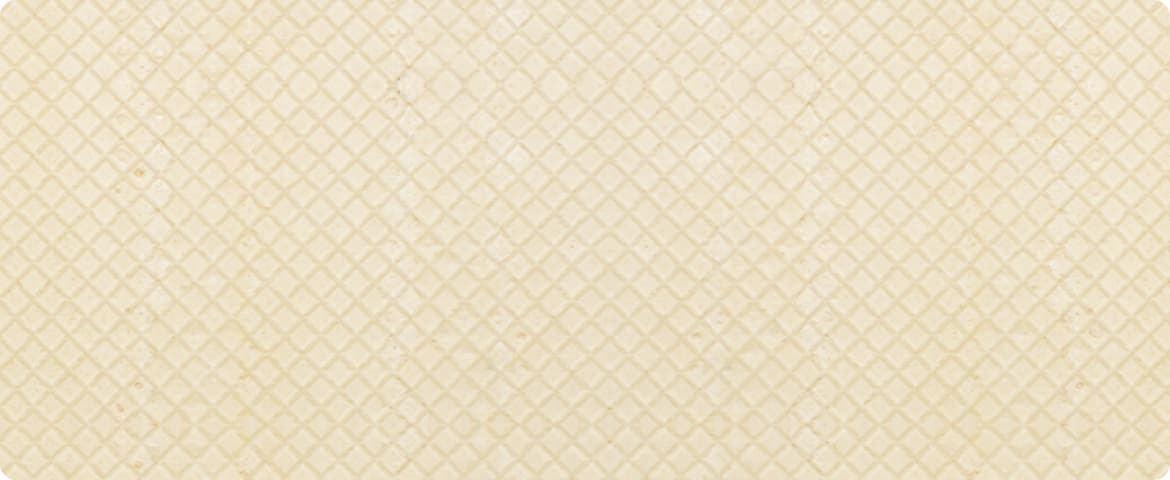
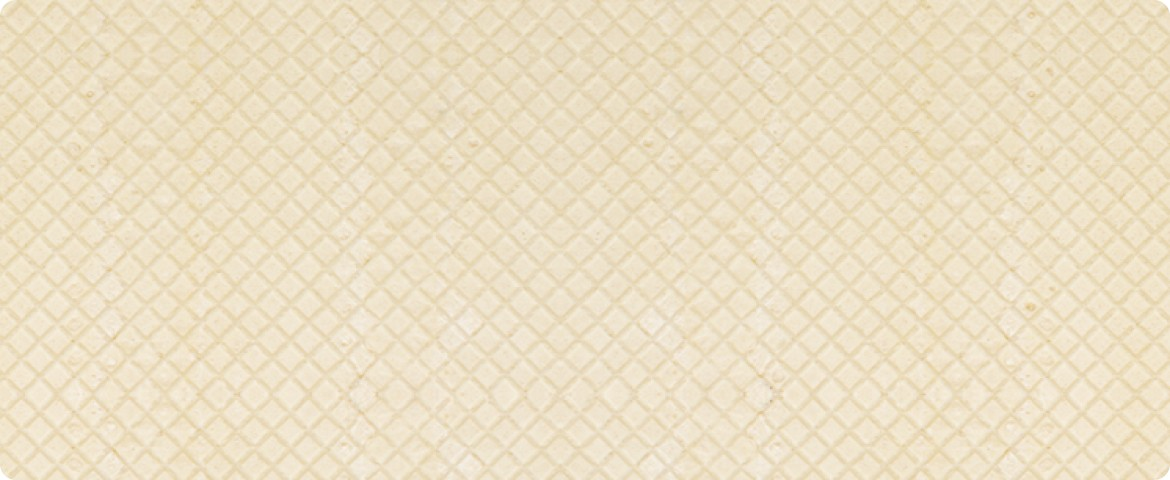
backgrounds-fixes

diff --git a/styles/styles.css b/styles/styles.css
@@ -1226,7 +1226,9 @@ body {
 .main-about-us {
   grid-column: 1/-1;
   background-image: url(../images/background-about-us.jpg);
-  background-position: 0 0, center;
+  background-position: top, 100%;
+  background-repeat: no-repeat;
+  background-color: rgb(238, 225, 192);
   border-radius: 16px;
   padding: 24px;
 }
@@ -1307,8 +1309,8 @@ body {
 }
 
 .blog-link {
-  background-image: url(../images/blog-link-background.jpg);
-  background-position: 100%;
+  background-image: url(../images/background-blog-link.jpg);
+  background-position: top, 100%;
   background-repeat: no-repeat;
   padding: 33px;
 }
@@ -1343,8 +1345,10 @@ body {
 
 .subscription {
   padding: 6px;
-  background-image: url(../images/subscription-background.jpg);
-  background-position: 100%;
+  background-image: url(../images/background-subscription.jpg);
+  background-position: top, 100%;
+  background-repeat: no-repeat;
+  background-color: #FCFCFC;
 }
 
 .subscription-container {
@@ -1406,7 +1410,7 @@ body {
   background-color: #FCFCFC;
   background-image: url(../images/background-delivery.jpg);
   background-repeat: no-repeat;
-  background-position: top 30px, 100%;
+  background-position: top, 100%;
   min-height: 534px;
   border-radius: 16px;
   padding: 65px;
